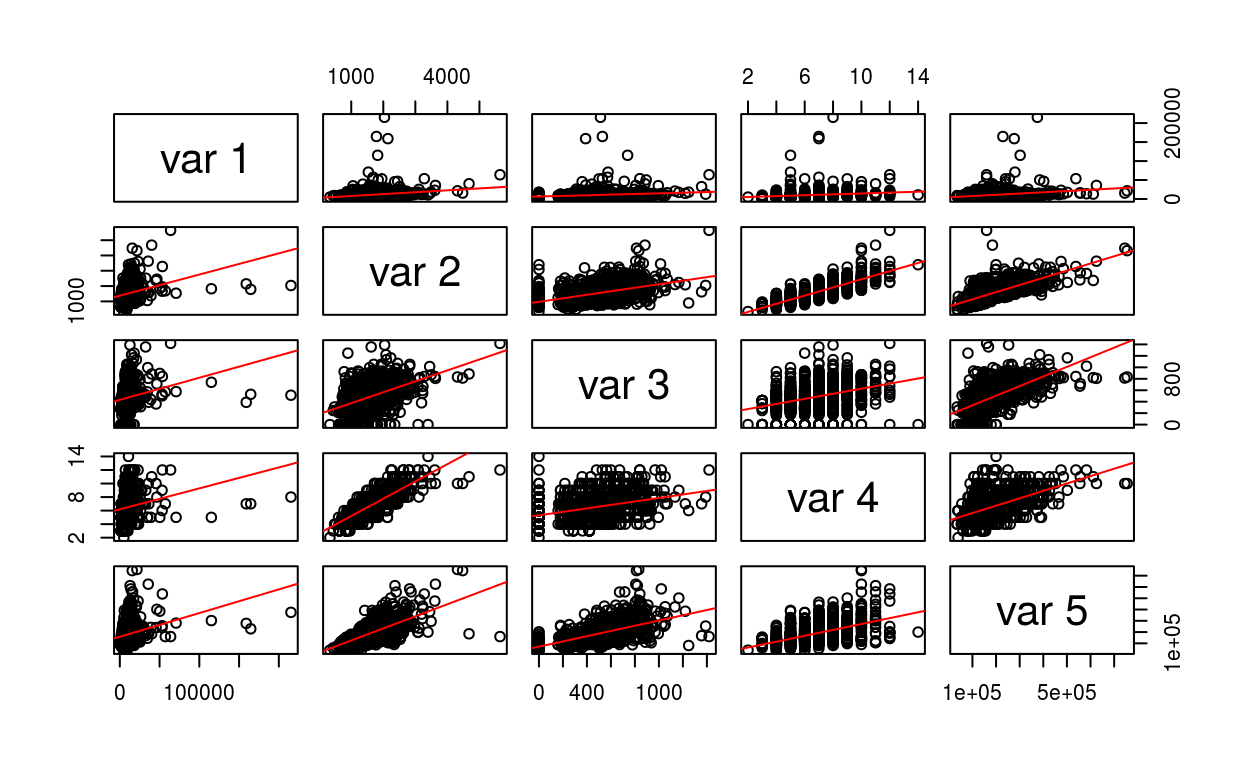
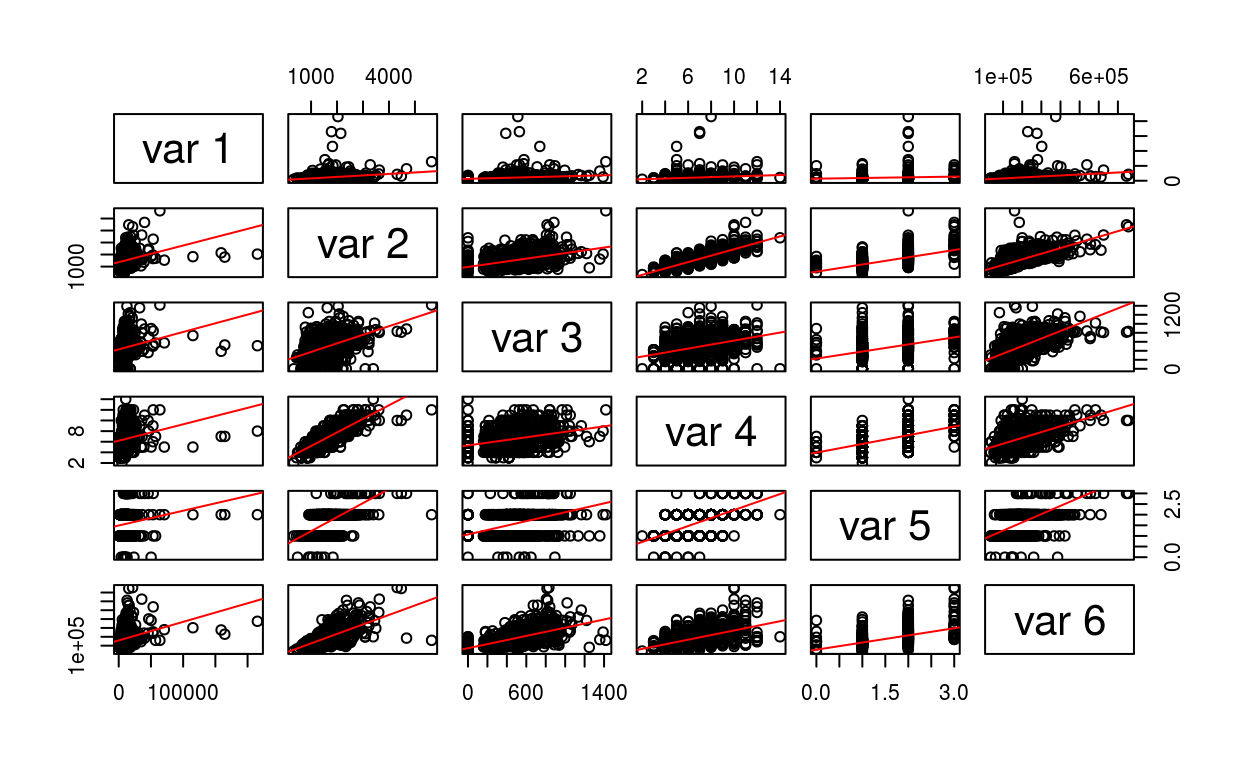
오타수정

diff --git a/_posts/2021-03-17-hwhouseprice/hwhouseprice.html b/_posts/2021-03-17-hwhouseprice/hwhouseprice.html
@@ -1500,7 +1500,7 @@ Show code
 Show code
 </summary>
 <div class="sourceCode">
-<pre class="sourceCode r"><code class="sourceCode r"><span class='fu'><a href='https://rdrr.io/r/graphics/pairs.html'>pairs</a></span><span class='op'>(</span> <span class='fu'><a href='https://rdrr.io/r/base/cbind.html'>cbind</a></span><span class='op'>(</span> <span class='va'>data</span><span class='op'>$</span><span class='va'>LotArea</span>, <span class='va'>data</span><span class='op'>$</span><span class='va'>GrLivArea</span>,<span class='va'>data</span><span class='op'>$</span><span class='va'>GarageArea</span>, <span class='va'>data</span><span class='op'>$</span><span class='va'>TotRmsAbvGrd</span>, <span class='va'>data</span><span class='op'>$</span><span class='va'>Fullbath</span>, <span class='va'>data</span><span class='op'>$</span><span class='va'>SalePrice</span><span class='op'>)</span>, panel<span class='op'>=</span><span class='kw'>function</span><span class='op'>(</span><span class='va'>x</span>,<span class='va'>y</span><span class='op'>)</span><span class='op'>{</span>
+<pre class="sourceCode r"><code class="sourceCode r"><span class='fu'><a href='https://rdrr.io/r/graphics/pairs.html'>pairs</a></span><span class='op'>(</span> <span class='fu'><a href='https://rdrr.io/r/base/cbind.html'>cbind</a></span><span class='op'>(</span> <span class='va'>data</span><span class='op'>$</span><span class='va'>LotArea</span>, <span class='va'>data</span><span class='op'>$</span><span class='va'>GrLivArea</span>, <span class='va'>data</span><span class='op'>$</span><span class='va'>GarageArea</span>, <span class='va'>data</span><span class='op'>$</span><span class='va'>TotRmsAbvGrd</span>, <span class='va'>data</span><span class='op'>$</span><span class='va'>FullBath</span>, <span class='va'>data</span><span class='op'>$</span><span class='va'>SalePrice</span><span class='op'>)</span>, panel<span class='op'>=</span><span class='kw'>function</span><span class='op'>(</span><span class='va'>x</span>,<span class='va'>y</span><span class='op'>)</span><span class='op'>{</span>
   <span class='fu'><a href='https://rdrr.io/r/graphics/points.html'>points</a></span><span class='op'>(</span><span class='va'>x</span>,<span class='va'>y</span><span class='op'>)</span>
   <span class='fu'><a href='https://rdrr.io/r/graphics/abline.html'>abline</a></span><span class='op'>(</span><span class='fu'><a href='https://rdrr.io/r/stats/lm.html'>lm</a></span><span class='op'>(</span><span class='va'>y</span><span class='op'>~</span><span class='va'>x</span><span class='op'>)</span>, col<span class='op'>=</span><span class='st'>'red'</span><span class='op'>)</span><span class='op'>}</span><span class='op'>)</span>
 </code></pre>

diff --git a/docs/posts/2021-03-17-hwhouseprice/index.html b/docs/posts/2021-03-17-hwhouseprice/index.html
@@ -2433,7 +2433,7 @@ Show code
 Show code
 </summary>
 <div class="sourceCode">
-<pre class="sourceCode r"><code class="sourceCode r"><span class='fu'><a href='https://rdrr.io/r/graphics/pairs.html'>pairs</a></span><span class='op'>(</span> <span class='fu'><a href='https://rdrr.io/r/base/cbind.html'>cbind</a></span><span class='op'>(</span> <span class='va'>data</span><span class='op'>$</span><span class='va'>LotArea</span>, <span class='va'>data</span><span class='op'>$</span><span class='va'>GrLivArea</span>,<span class='va'>data</span><span class='op'>$</span><span class='va'>GarageArea</span>, <span class='va'>data</span><span class='op'>$</span><span class='va'>TotRmsAbvGrd</span>, <span class='va'>data</span><span class='op'>$</span><span class='va'>Fullbath</span>, <span class='va'>data</span><span class='op'>$</span><span class='va'>SalePrice</span><span class='op'>)</span>, panel<span class='op'>=</span><span class='kw'>function</span><span class='op'>(</span><span class='va'>x</span>,<span class='va'>y</span><span class='op'>)</span><span class='op'>{</span>
+<pre class="sourceCode r"><code class="sourceCode r"><span class='fu'><a href='https://rdrr.io/r/graphics/pairs.html'>pairs</a></span><span class='op'>(</span> <span class='fu'><a href='https://rdrr.io/r/base/cbind.html'>cbind</a></span><span class='op'>(</span> <span class='va'>data</span><span class='op'>$</span><span class='va'>LotArea</span>, <span class='va'>data</span><span class='op'>$</span><span class='va'>GrLivArea</span>, <span class='va'>data</span><span class='op'>$</span><span class='va'>GarageArea</span>, <span class='va'>data</span><span class='op'>$</span><span class='va'>TotRmsAbvGrd</span>, <span class='va'>data</span><span class='op'>$</span><span class='va'>FullBath</span>, <span class='va'>data</span><span class='op'>$</span><span class='va'>SalePrice</span><span class='op'>)</span>, panel<span class='op'>=</span><span class='kw'>function</span><span class='op'>(</span><span class='va'>x</span>,<span class='va'>y</span><span class='op'>)</span><span class='op'>{</span>
   <span class='fu'><a href='https://rdrr.io/r/graphics/points.html'>points</a></span><span class='op'>(</span><span class='va'>x</span>,<span class='va'>y</span><span class='op'>)</span>
   <span class='fu'><a href='https://rdrr.io/r/graphics/abline.html'>abline</a></span><span class='op'>(</span><span class='fu'><a href='https://rdrr.io/r/stats/lm.html'>lm</a></span><span class='op'>(</span><span class='va'>y</span><span class='op'>~</span><span class='va'>x</span><span class='op'>)</span>, col<span class='op'>=</span><span class='st'>'red'</span><span class='op'>)</span><span class='op'>}</span><span class='op'>)</span>
 </code></pre>
